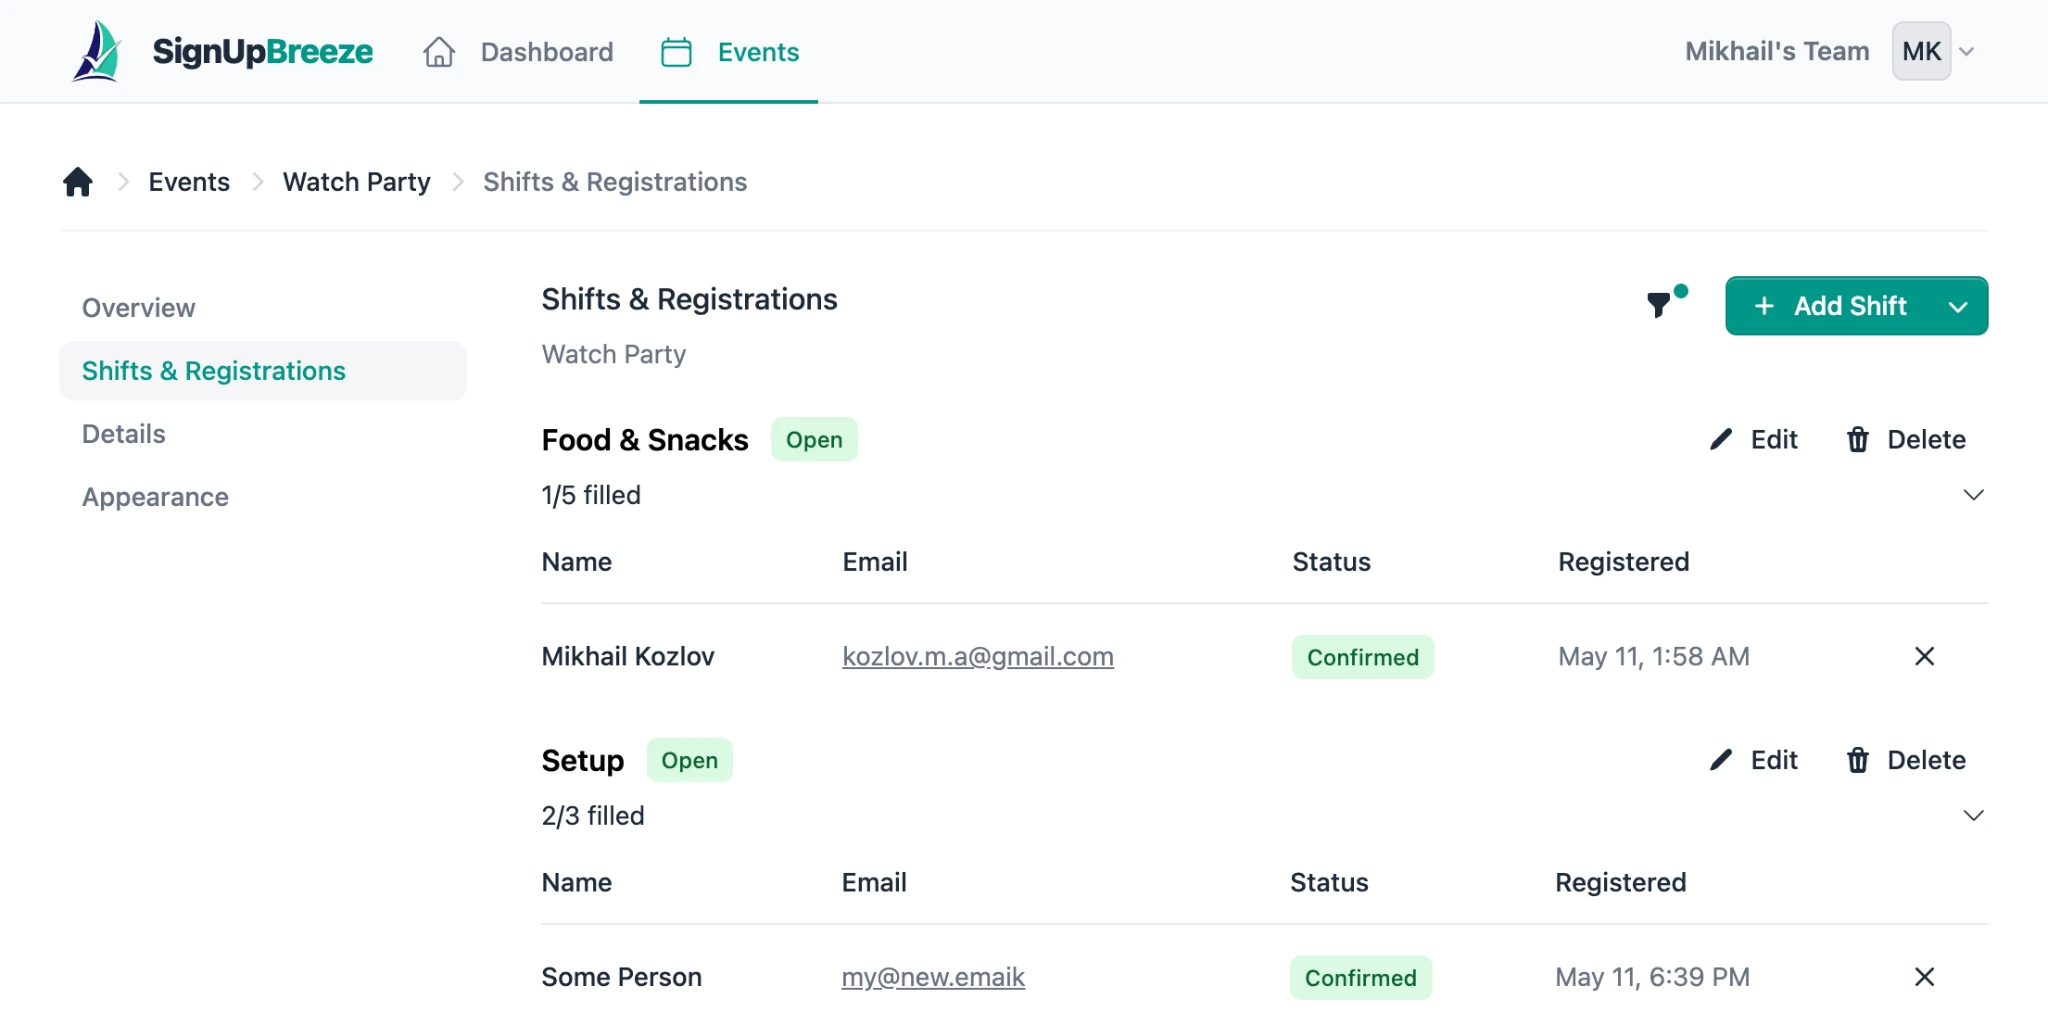
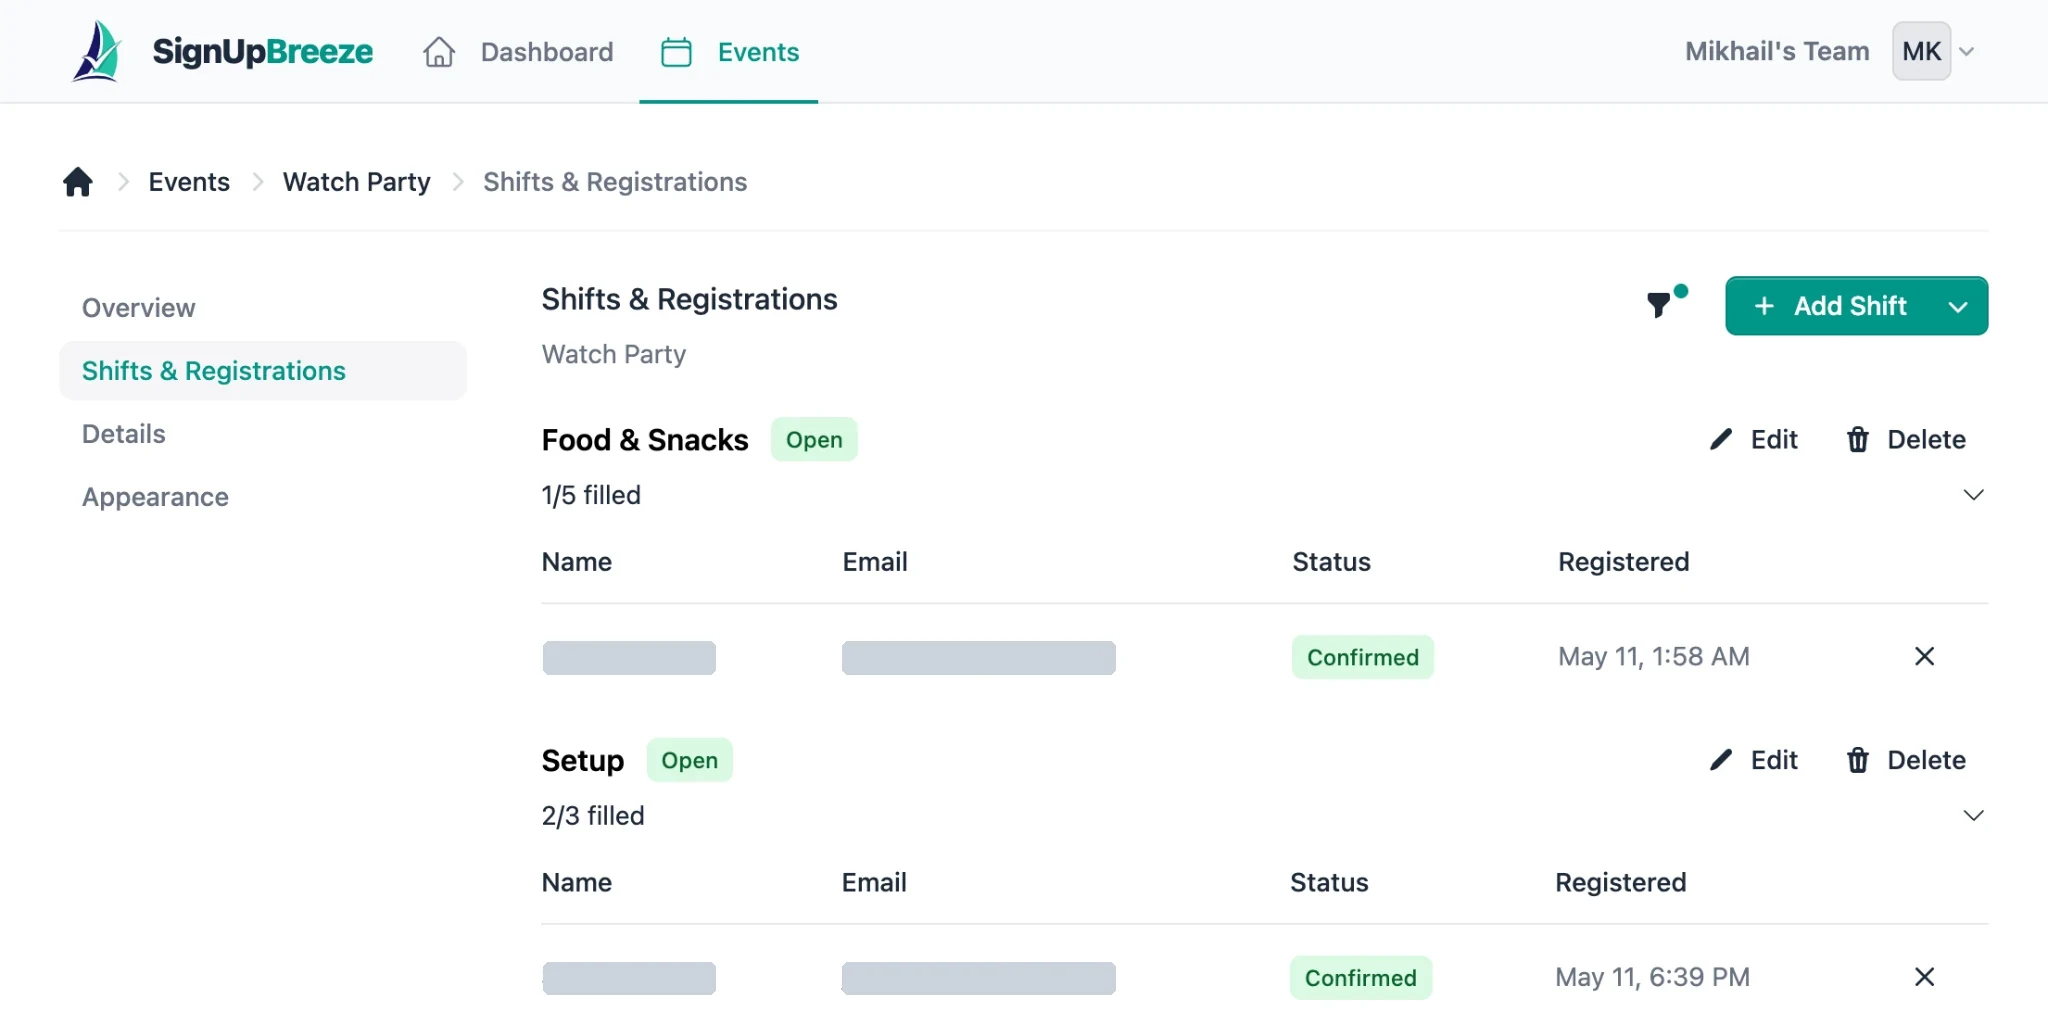
Prepare docs repo for public release
Pre-publication review for #4. Audited the working tree and all 23 commits
across every branch: no credentials, keys, tokens, connection strings, or
internal hostnames, and no third-party PII.

Two real findings, both in screenshots already served publicly by the live
docs site:

- event-shifts-and-registrations.webp showed a registration table with a real
  name and live email address. Redacted the Name and Email columns in both
  tables; status, dates, and fill counts are kept so the page still explains
  what it needs to.
- event-overview.webp shows a signupbreeze.test share link and a QR code
  encoding it. Left as-is deliberately: the share link is the subject of the
  screenshot on two pages, and a .test domain resolves nowhere. To be replaced
  when the shot is retaken against a real host.

Housekeeping for a public repo:

- Add SECURITY.md so vulnerability reports have a private channel instead of
  the public issue tracker, and so product findings get routed too.
- Fill in AGENTS.md, which was untouched boilerplate. Records the Organization
  vs Team distinction, the passwordless model (no passwords, no 2FA, no
  recovery codes), and content boundaries covering security internals and
  screenshot hygiene — the rules that would have caught the finding above.
- Add README.md and LICENSE.md (CC BY 4.0, trademarks reserved).
- Untrack .idea/ and extend .gitignore.
- Delete images/choose-template.png, an unreferenced 885 KB duplicate of the
[…]

diff --git a/AGENTS.md b/AGENTS.md
@@ -1,25 +1,31 @@
-> **First-time setup**: Customize this file for your project. Prompt the user to customize this file for their project.
-> For Mintlify product knowledge (components, configuration, writing standards),
-> install the Mintlify skill: `npx skills add https://mintlify.com/docs`
-
 # Documentation project instructions
 
 ## About this project
 
-- This is a documentation site built on [Mintlify](https://mintlify.com)
+- This is the source of the public SignUpBreeze documentation site, built on [Mintlify](https://mintlify.com) and published at [docs.signupbreeze.com](https://docs.signupbreeze.com)
 - Pages are MDX files with YAML frontmatter
-- Configuration lives in `docs.json`
+- Navigation and configuration live in `docs.json` — a new page is not visible until it is added there
 - Run `mint dev` to preview locally
 - Run `mint broken-links` to check links
 
+**This repository is public.** Anything committed here — including git history — is
+permanently visible to everyone. See `SECURITY.md` for how to report a disclosure problem.
+
 ## Terminology
 
-{/* Add product-specific terms and preferred usage */}
-{/* Example: Use "workspace" not "project", "member" not "user" */}
+- **Organization** — the account that owns events and billing. Use this in user-facing docs.
+- **Team** — a group of people collaborating inside an organization. Not a synonym for
+  organization. Earlier docs used the two interchangeably; they are distinct. Don't
+  reintroduce "team" where "organization" is meant.
+- **Event** — the thing an organizer creates. **Shift** — a slot within an event.
+  **Registration** — a volunteer's signup for a shift.
+- **Organizer** and **volunteer** are the two audiences; the Organizer Guide and Volunteer
+  Guide are written for each.
+- SignUpBreeze is **passwordless**. Never write about passwords, password resets, 2FA apps,
+  TOTP, or recovery codes — none of these exist. Sign-in is a one-time emailed code, or
+  Google or Apple. Volunteers use magic links and need no account at all.
 
 ## Style preferences
-
-{/* Add any project-specific style rules below */}
 
 - Use active voice and second person ("you")
 - Keep sentences concise — one idea per sentence
@@ -29,5 +35,24 @@
 
 ## Content boundaries
 
-{/* Define what should and shouldn't be documented */}
-{/* Example: Don't document internal admin features */}
+Document what the product *does*, never how its security is *implemented*.
+
+**Do not publish:**
+
+- Token or code formats, lengths, or entropy details
+- Expiry windows and TTLs for sign-in codes or magic links — write "expires after a short
+  time", never a specific number
+- Rate limits, lockout thresholds, or retry counts
+- Infrastructure details: internal hostnames, IPs, provider names, queue or database specifics
+- Anything about admin-only or internal tooling
+
+**Screenshots** are the most common way this leaks. Before adding one:
+
+- Use seeded demo data. Never real names or real email addresses — including your own.
+  A live address in a screenshot on a public site gets scraped.
+- Capture from production or a staging host. Never a local dev domain such as `*.test` or
+  `localhost` — check the URL bar, share links, and any QR code, which encodes the URL too.
+- Check the whole frame, not just the subject: account menus, breadcrumbs, sidebars, and
+  notification badges all carry identifying detail.
+- Save as `.webp` in `images/`, reference as `/images/<name>.webp`, and always write
+  descriptive `alt` text.

diff --git a/README.md b/README.md
@@ -1,0 +1,68 @@
+# SignUpBreeze Documentation
+
+Source for the SignUpBreeze documentation site, published at
+**[docs.signupbreeze.com](https://docs.signupbreeze.com)**.
+
+SignUpBreeze helps organizers create events, coordinate shifts, and manage volunteer
+signups — without making volunteers create an account. Learn more at
+[signupbreeze.com](https://signupbreeze.com).
+
+## What's here
+
+| Path | Contents |
+|------|----------|
+| `getting-started/` | Introduction, key concepts, and quickstart |
+| `organizers/` | Organizer Guide — events, shifts, signups, sharing |
+| `volunteers/` | Volunteer Guide — signing up, magic links, registrations |
+| `account/` | Account & Settings — profile, signing in, billing, notifications |
+| `changelog.mdx` | Release notes |
+| `images/` | Screenshots referenced by the pages |
+| `docs.json` | Site configuration and navigation |
+
+Pages are [MDX](https://mdxjs.com) with YAML frontmatter, built with
+[Mintlify](https://mintlify.com).
+
+## Preview locally
+
+Install the Mintlify CLI, then run the dev server from the repository root:
+
+```bash
+npm i -g mint
+```
+
+```bash
+mint dev
+```
+
+The site is served at `http://localhost:3000` and reloads as you edit.
+
+Check for broken links before opening a pull request:
+
+```bash
+mint broken-links
+```
+
+## Contributing
+
+Corrections and improvements are welcome — typos, unclear steps, missing detail, anything
+that made the docs harder to use than they should be.
+
+1. Open an [issue](https://github.com/SignUpBreeze/docs/issues) to discuss anything
+   substantial, or go straight to a pull request for a small fix.
+2. Edit the relevant `.mdx` file. Adding a new page? Add it to `navigation` in `docs.json`
+   too, or it won't appear.
+3. Read [`AGENTS.md`](AGENTS.md) first — it covers terminology, voice, and what must not be
+   published. The screenshot rules in particular matter: never capture real names, real email
+   addresses, or a local dev host.
+4. Run `mint broken-links` and open the pull request.
+
+Found a security or disclosure problem? Don't open a public issue — see
+[`SECURITY.md`](SECURITY.md).
+
+## License
+
+Documentation content is licensed under
+[CC BY 4.0](https://creativecommons.org/licenses/by/4.0/). See [`LICENSE.md`](LICENSE.md).
+
+The SignUpBreeze name and logo are trademarks of SignUpBreeze and are not covered by that
+license.

diff --git a/SECURITY.md b/SECURITY.md
@@ -1,0 +1,44 @@
+# Security Policy
+
+## Reporting a vulnerability
+
+**Please do not report security issues in a public GitHub issue.**
+
+This repository is public, so anything filed here is visible to everyone — including
+before we have a chance to fix it.
+
+Report vulnerabilities privately in either of these ways:
+
+- **GitHub** — open a report through
+  [Private vulnerability reporting](https://github.com/SignUpBreeze/docs/security/advisories/new).
+  Only SignUpBreeze maintainers can see it.
+- **Email** — write to **hello@signupbreeze.com** with `SECURITY` in the subject line.
+
+We aim to acknowledge reports within 3 business days.
+
+## Scope
+
+This repository contains the **source of the SignUpBreeze documentation site** only —
+MDX pages, configuration, images, and styles. It contains no application code.
+
+Report here if you find:
+
+- Content in these docs that discloses something it shouldn't (credentials, internal
+  hostnames, personal data in screenshots, security internals).
+- A problem with how the documentation site itself is built or served.
+
+**Vulnerabilities in the SignUpBreeze product** — anything at `signupbreeze.com` or in
+the app — should also go to **hello@signupbreeze.com**, not to a public issue in this
+repository.
+
+## What not to report
+
+Documentation errors, broken links, typos, and out-of-date instructions are not security
+issues. Please open a normal [issue](https://github.com/SignUpBreeze/docs/issues) or a
+pull request for those — they're very welcome.
+
+## Disclosure
+
+Please give us a reasonable opportunity to fix an issue before disclosing it publicly.
+We'll keep you updated on progress and credit you when the fix ships, unless you'd
+rather stay anonymous.

diff --git a/LICENSE.md b/LICENSE.md
@@ -1,0 +1,23 @@
+# License
+
+## Documentation content
+
+Copyright © SignUpBreeze
+
+The documentation content in this repository — the MDX pages, their text, and the
+screenshots in `images/` — is licensed under the
+**Creative Commons Attribution 4.0 International License (CC BY 4.0)**.
+
+You are free to share and adapt this material for any purpose, including commercially,
+provided you give appropriate credit, link to the license, and indicate if changes were
+made.
+
+Full license text: <https://creativecommons.org/licenses/by/4.0/legalcode>
+Summary: <https://creativecommons.org/licenses/by/4.0/>
+
+## Trademarks
+
+The SignUpBreeze name, logo, and brand assets — including the files in `logo/` and
+`favicon.ico` — are trademarks of SignUpBreeze and are **not** covered by the CC BY 4.0
+license above. You may use them to refer to SignUpBreeze, but not in a way that suggests
+endorsement of or affiliation with your own project.
